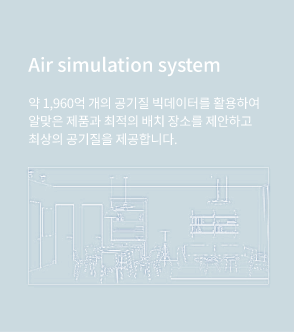
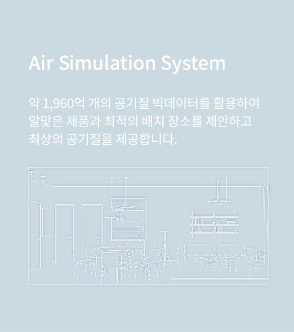
수정

Changed region(s): [[0.0918, 0.1506, 0.7653, 0.241]]

diff --git a/pages/index.vue b/pages/index.vue
@@ -17,7 +17,7 @@
                             <div class="h-100 pl-xl-5 ml-xl-5"><transition name="tran-3"> <b-img src="/images/i1_3.svg" v-if="slide==0 && visible" fluid class="pl-xl-5 ml-xl-5 h-100"></b-img> </transition></div>
                         </div>
                         <div class="position-absolute d-mds-block pl-xl-5 ml-xl-5" style="bottom: 0; left: 0; height: 50%;">
-                            <transition name="tran-2"> <b-img src="/images/i1_2.svg" v-if="slide==0 && visible" fluid class="h-100 ml-lg-5"></b-img> </transition>
+                            <transition name="tran-2"> <b-img src="/images/i1_2.png" v-if="slide==0 && visible" fluid class="h-100 ml-lg-5"></b-img> </transition>
                         </div>
                         <div class="mt-5 text-left text-lg-center row w-100">
                             <div class="col-0 col-lg-1 col-xl-1"></div>
